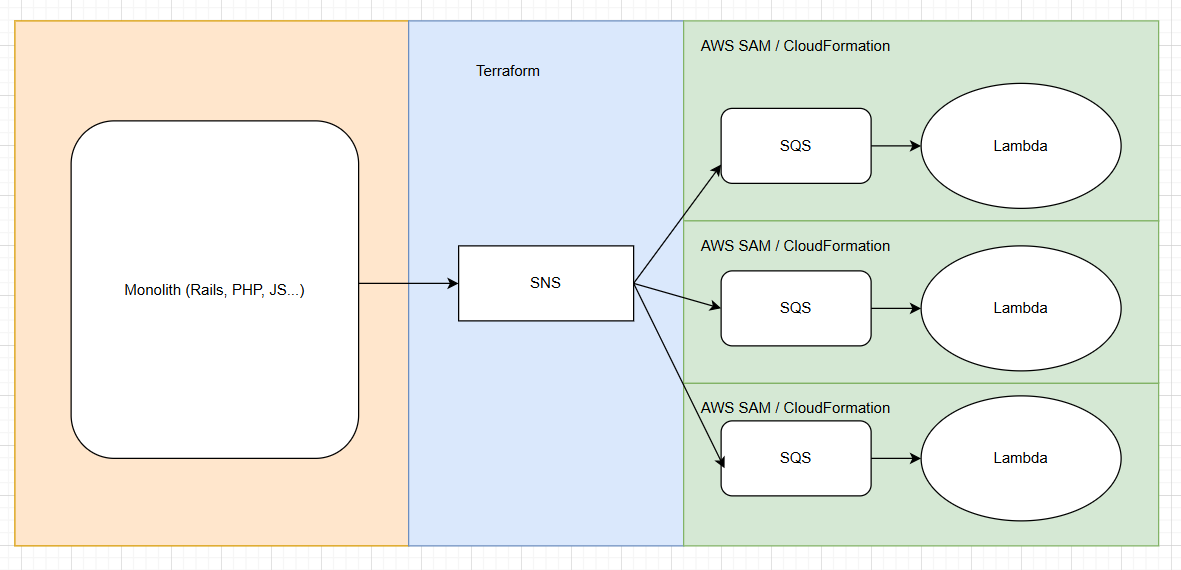
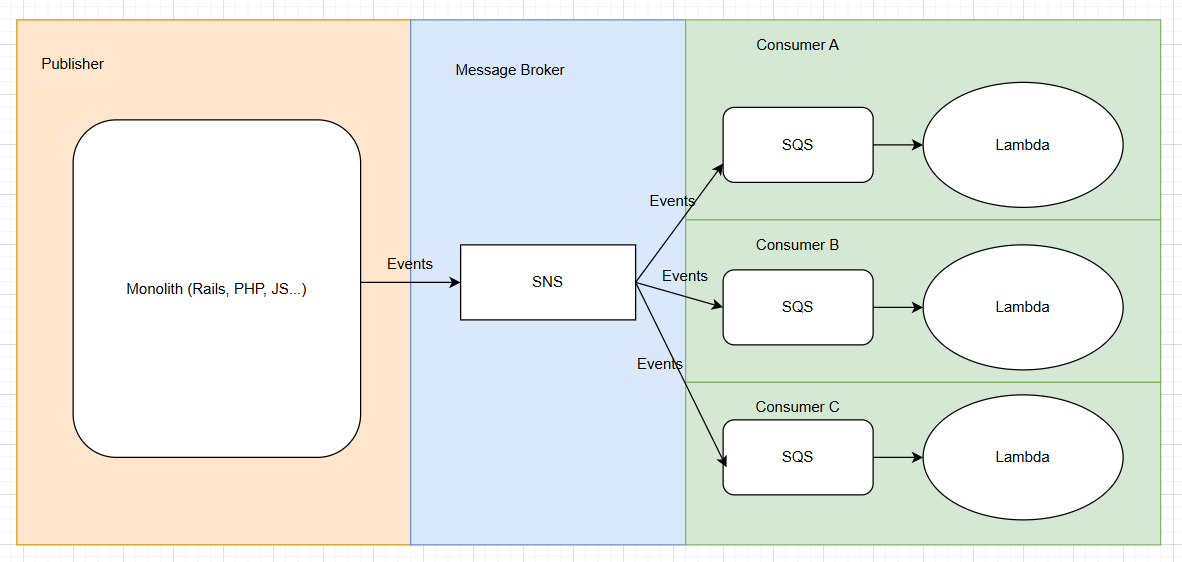
updated chapter name

diff --git a/overrides/main.html b/overrides/main.html
@@ -1,7 +1,1 @@
 {% extends "base.html" %}
-
-{% block announce %}
-<span class="twemoji">
-  {% include ".icons/fontawesome/regular/star.svg" %} 
-</span> Added "Terraform"
-{% endblock %}

diff --git a/docs/terraform.md b/docs/terraform.md
@@ -2,7 +2,7 @@ We will be using Terraform to provision SNS in staging and production environmen
 
 There are different ways of using Terraform, depending on your AWS setup:
 
-# Single AWS account deployment
+## Single AWS account deployment
 
 If all your environments (staging, production...) are in one account, then when you provision resources, you have to avoid naming conflict. For example:
 
@@ -127,7 +127,7 @@ variable "env" {
 }
 ```
 
-# Multi-AWS accounts deployment
+## Multi-AWS accounts deployment
 
 If your environments are in multiple AWS accounts (for example, staging is in account A, production is in account B), then in general you don't have
 to worry about naming conflict.

diff --git a/docs/ruby_sdk.md b/docs/ruby_sdk.md
@@ -27,9 +27,9 @@ sns.publish({
 
 Some of the settings are stored in env variables so each environment (staging, production...) can have its own setting.
 
-# How to test on local
+## How to test on local
 
-## Method 1: LocalStack
+### Method 1: LocalStack
 
 Set up SNS and SQS using LocalStack. And start Lambda in watch mode.
 
@@ -39,7 +39,7 @@ For setting SNS and SQS please refer to the LocalStack <a target="_blank" href="
 
 ![LocalStack](images/localstack.png "LocalStack")
 
-## Method 2: Invoke Lambda with test events
+### Method 2: Invoke Lambda with test events
 
 The second way is a bit easier to setup. All we need to do is to prepare event.json.
 

diff --git a/docs/sam.md b/docs/sam.md
@@ -1,0 +1,1 @@
+:construction: work in progress
